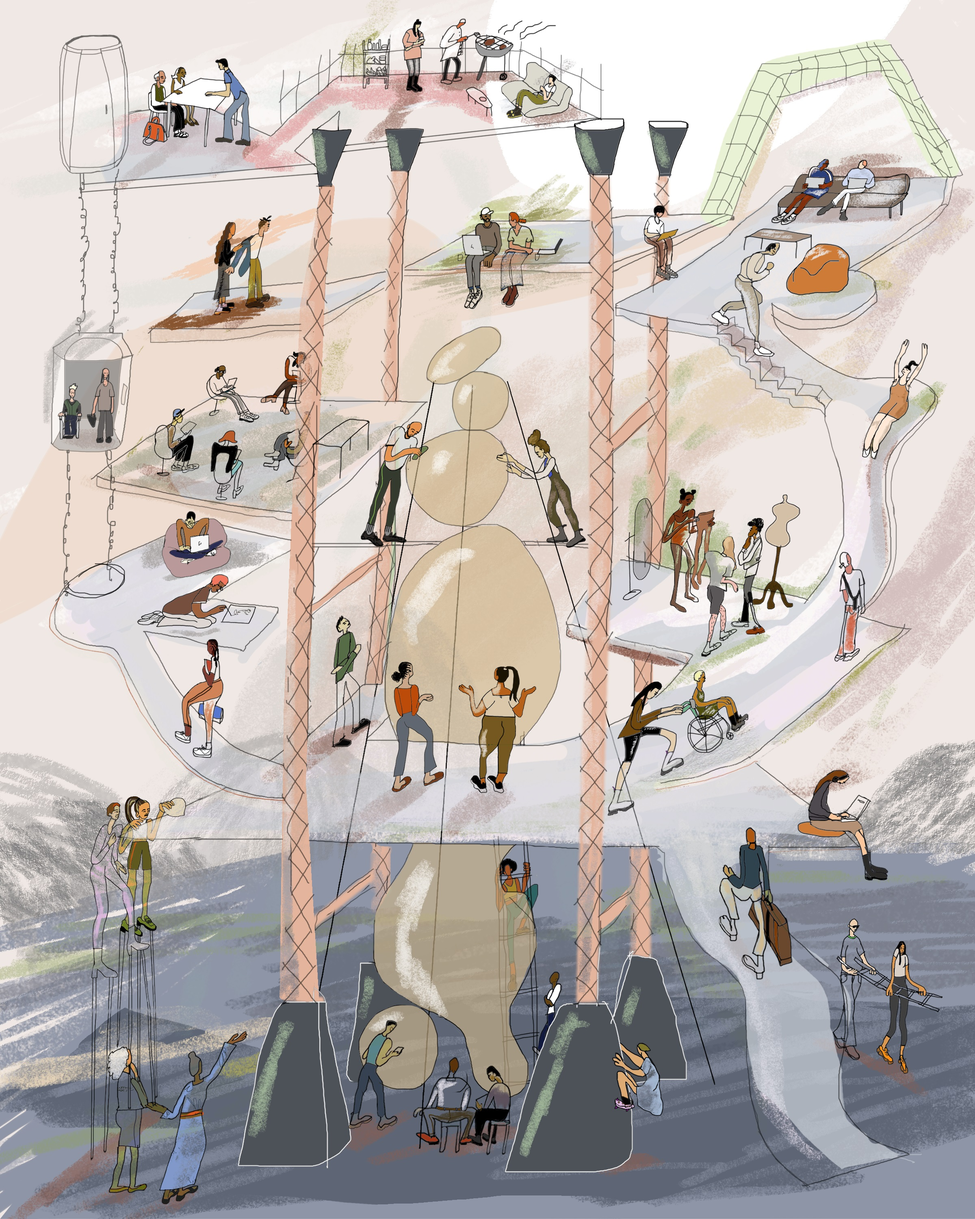
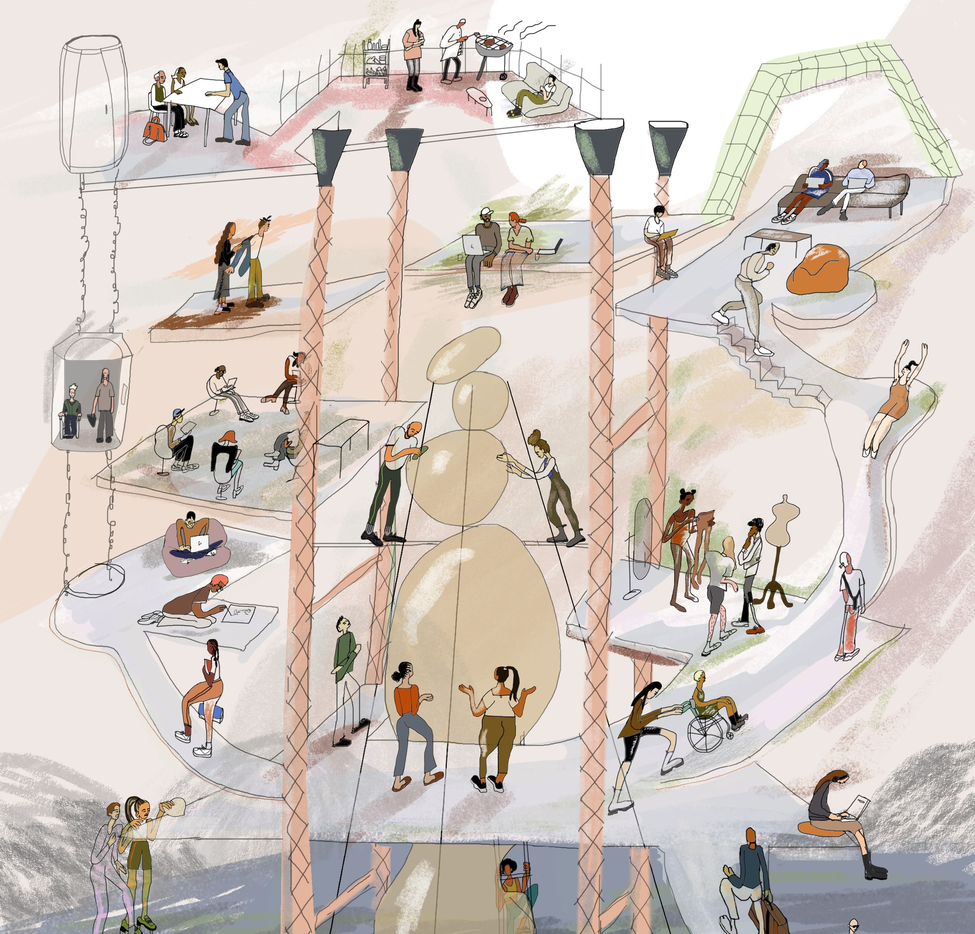
modify: backgound pic

diff --git a/index.html b/index.html
@@ -137,12 +137,12 @@
 					<div class="container">
 						<h1>📫Contact</h1>
 						<div class="row">
-							<ul class="col-6 cont-list list-flat">
+							<ul class="col-12 cont-list list-flat">
 								<p>📧Email</p>
 								<li>yaozh7125@foxmail.com</li>
 								<!-- <li>yaozh7125@gmail.com</li> -->
 							</ul>
-							<ul class="col-6 cont-list list-flat">
+							<ul class="col-12 cont-list list-flat">
 								<p>✨Github</p>
 								<li><a style="font-weight:600;" href="https://github.com/Yaozhtj">@Yaozhtj</a></li>
 							</ul>

diff --git a/css/custom.css b/css/custom.css
@@ -76,15 +76,17 @@ a:hover {
     width: 100%;
     height: 100%;
     min-width: 1000px;
+    z-index: -10;
+    zoom: 1;
     background-color: #fff;
     background-repeat: no-repeat;
     background-size: cover;
     -webkit-background-size: cover;
     -o-background-size: cover;
-    /* background-image: url(../img/bg.gif); */
+    background-position: center 0;
+	/* background-image: url(../img/bg.gif); */
     background-image: url(../img/bg.jpg);
 }
-
 
 /* introduce */
 .intro {
